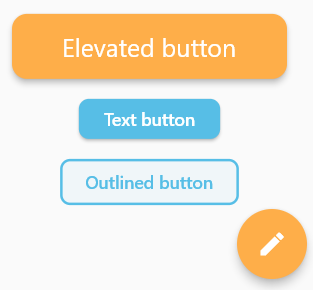
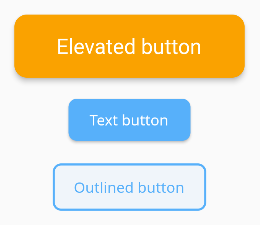
Updated main colors to agment contrast

diff --git a/lib/crcrme_material_theme.dart b/lib/crcrme_material_theme.dart
@@ -4,8 +4,8 @@ const Color white = Color(0xFFFFFFFF);
 const Color black = Color(0xFF1c0f13);
 const Color gray = Color(0xFF3D424A);
 const Color disabled = Color(0xFF9CA1AA);
-const Color blue = Color(0xFF57BEE6);
-const Color orange = Color(0xFFFEAE49);
+const Color blue = Color(0xFF57B0FA);
+const Color orange = Color(0xFFFAA200);
 const Color background = Color(0xFFFAFAFA);
 const Color error = Color(0xFFF02010);
 
